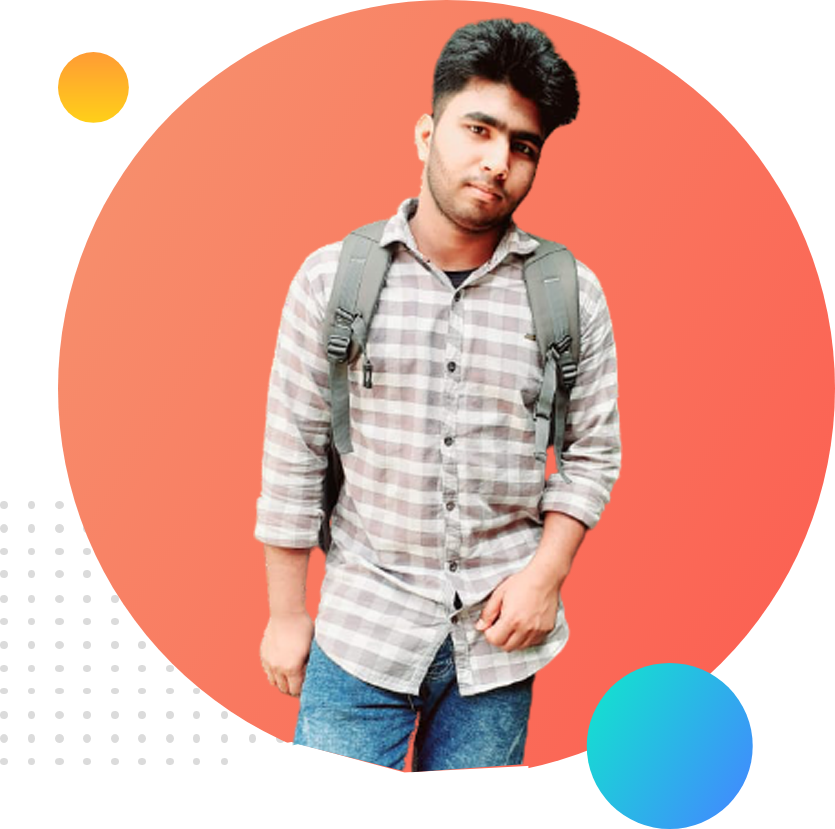
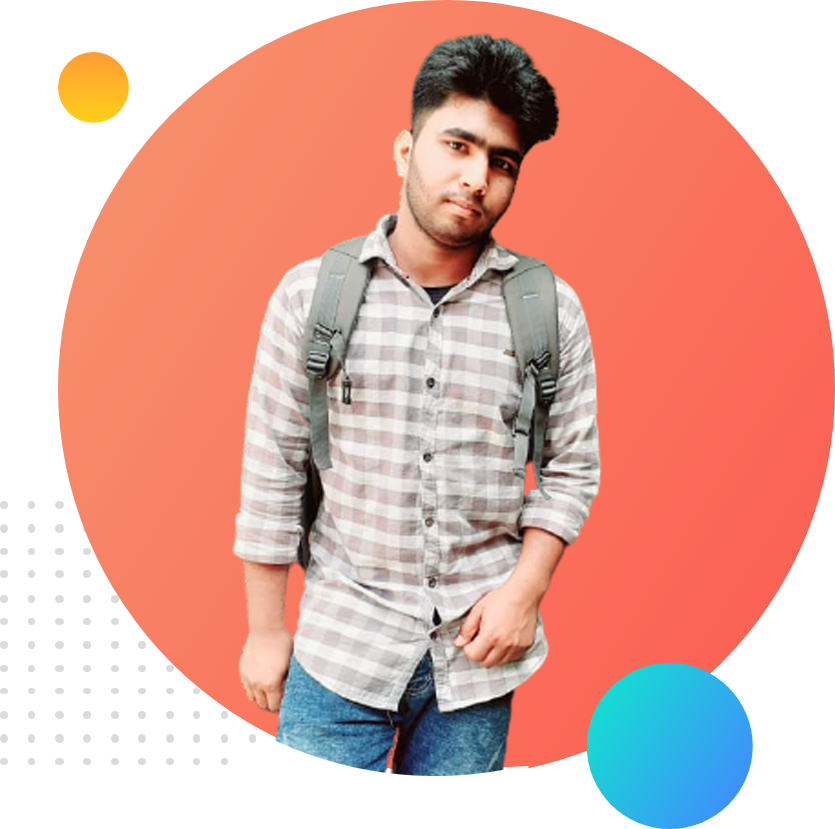
header ses

Changed region(s): [[0.2802, 0.0, 0.7473, 0.9349]]

diff --git a/style.css b/style.css
@@ -1,4 +1,44 @@
+@import url('https://fonts.googleapis.com/css2?family=Poppins:wght@400;500;600;700&display=swap');
+
 *{
     margin: 0;
     padding: 0;
+}
+body{
+    font-family: 'Poppins', sans-serif;
+}
+h1{
+    font-size: 50px;
+    text-transform: capitalize;
+}
+span{
+    color: orange;
+}
+h3{
+    text-transform: capitalize;
+}
+p{
+    margin-bottom: 15px;
+}
+.header{
+    display: flex;
+    background: url(img/top-banner.png);
+    background-repeat: no-repeat;
+    
+}
+div{
+    width: 50%;
+    padding-left: 5%;
+}
+div img{
+    width: 80%;
+}
+.link-btn{
+    text-decoration: none;
+    background: linear-gradient(45deg, lightsalmon, tomato);
+    padding: 10px 40px;
+    border-radius: 5px;
+    color: #fff;
+    font-weight: 700;
+    text-transform: capitalize;
 }

diff --git a/index.html b/index.html
@@ -8,6 +8,17 @@
     <link rel="stylesheet" href="style.css">
 </head>
 <body>
-    
+    <section class="header">
+        <div>
+            <h1>welcome to</h1>
+            <h1><span>roman sheikh's</span> world</h1>
+            <h3>fullstack web developer and programmer</h3>
+            <p>Lorem ipsum dolor sit amet consectetur adipisicing elit. Magnam quasi deserunt facilis qui aliquam possimus, placeat adipisci. Quae dicta rem exercitationem, eum enim delectus, eveniet odit eius saepe ipsam eaque.</p>
+            <a class="link-btn" href="https://www.facebook.com/romansheikh2003/" target="_black">hire me</a>
+        </div>
+        <div>
+            <img src="img/r2.png" alt="">
+        </div>
+    </section>
 </body>
 </html>
